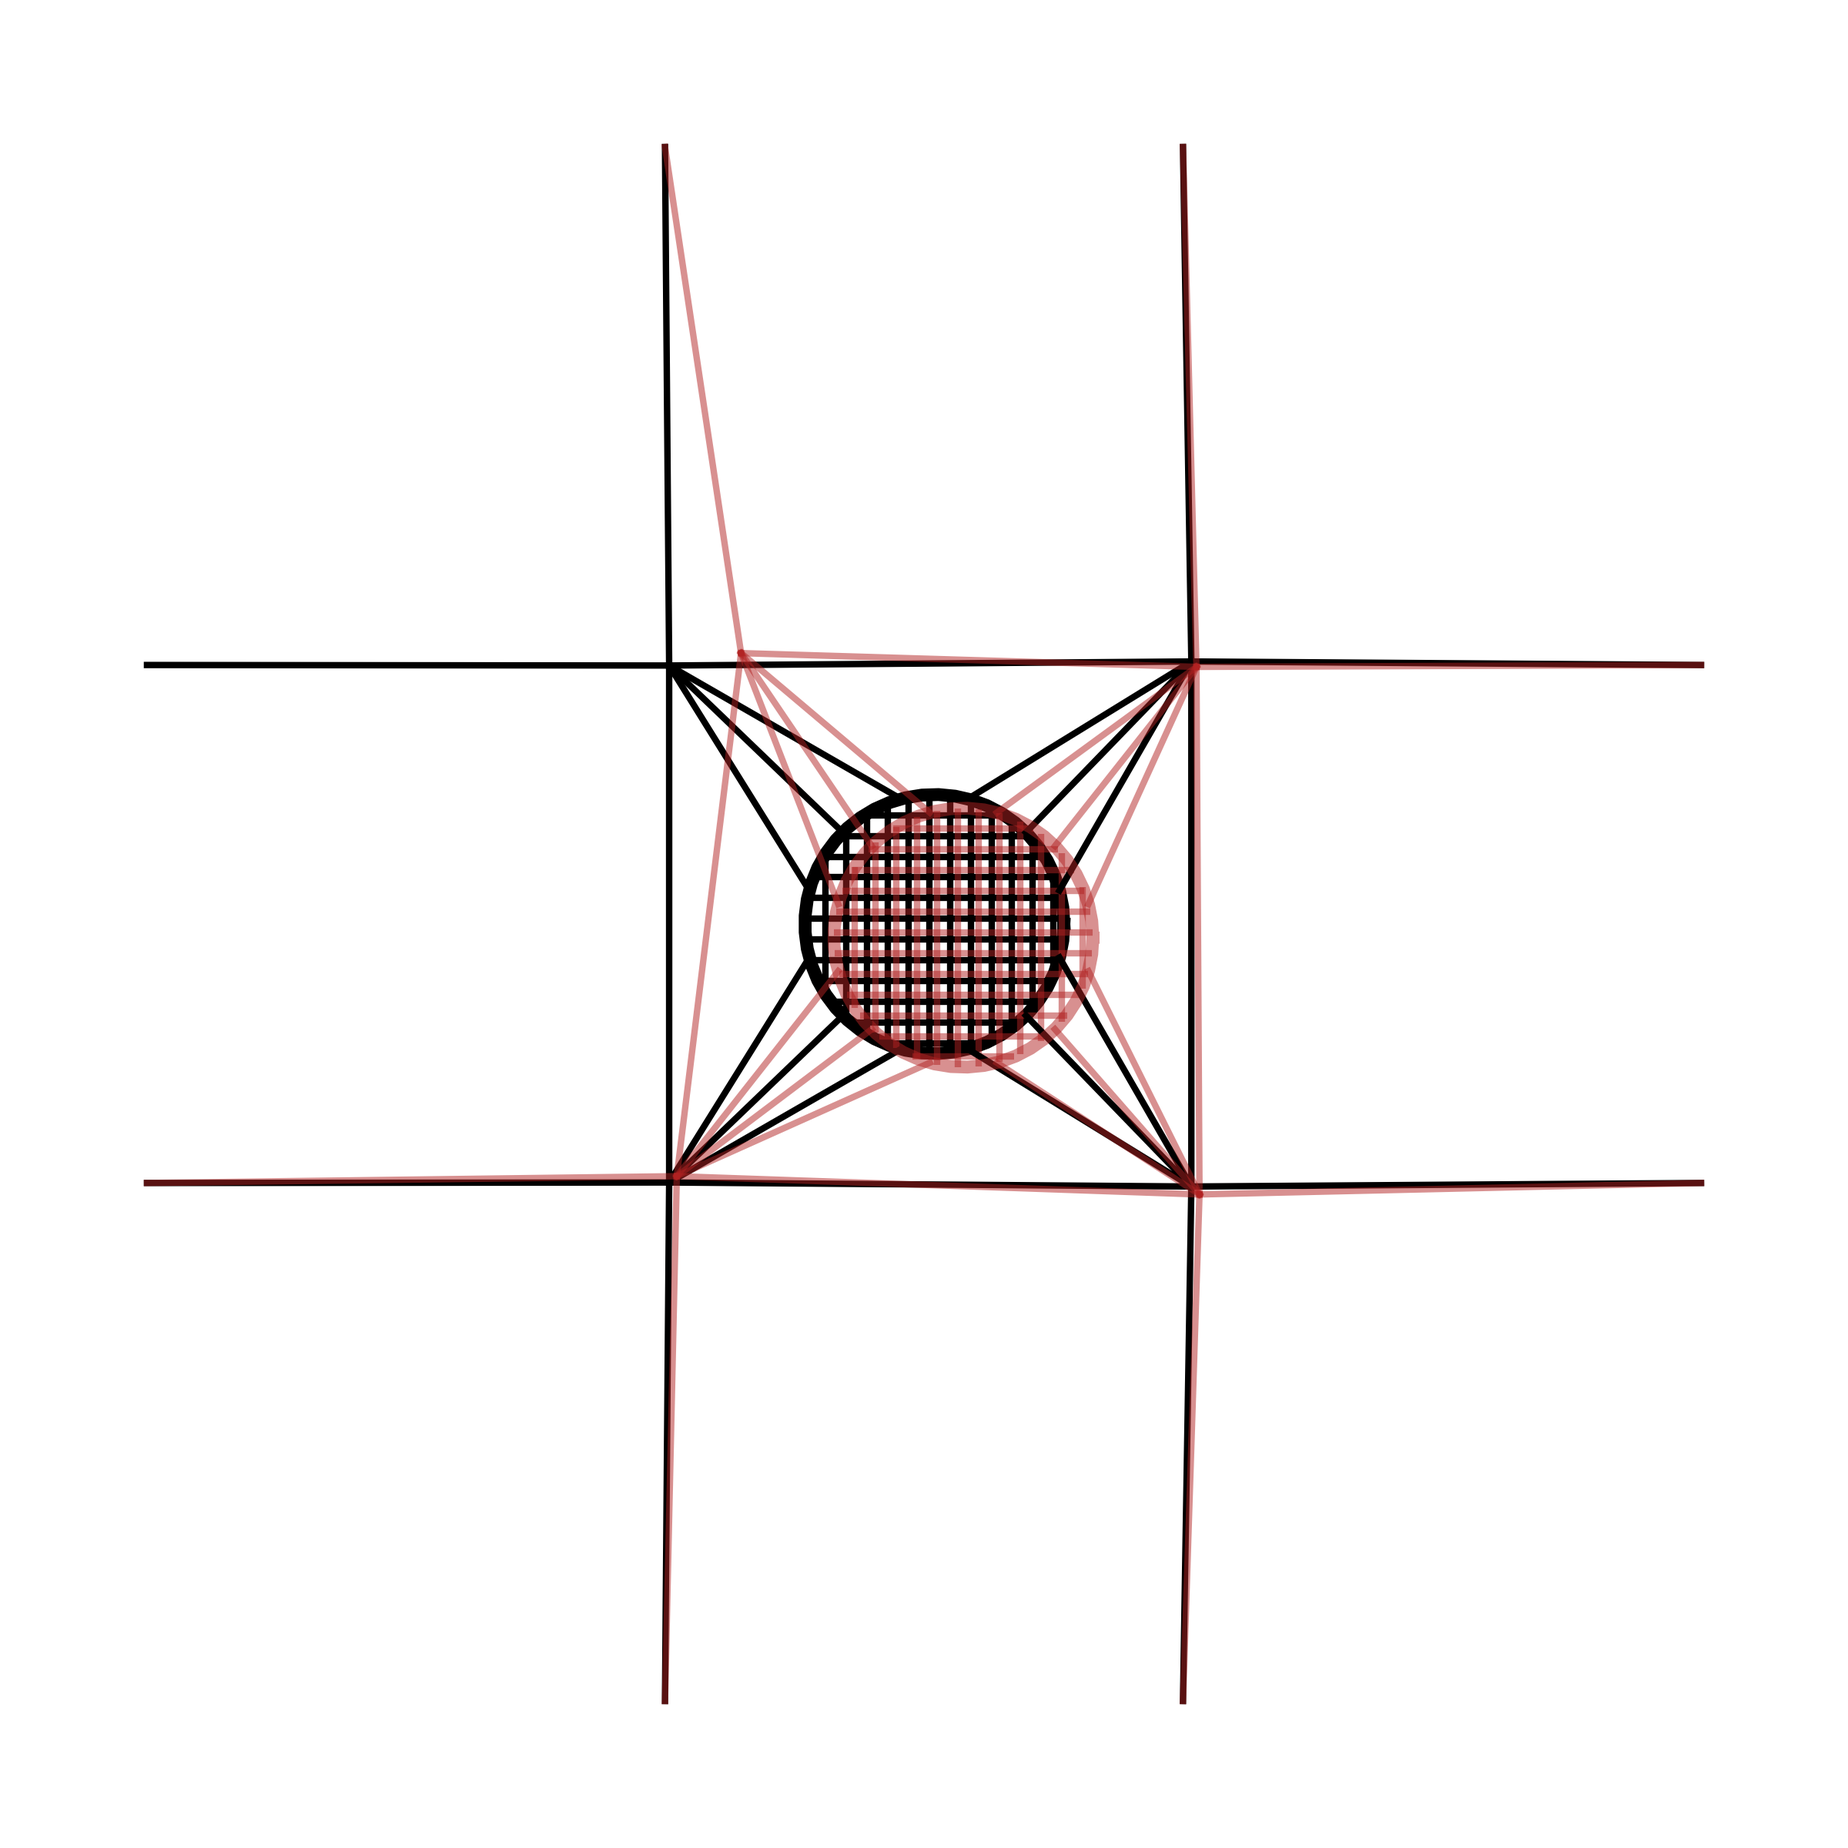
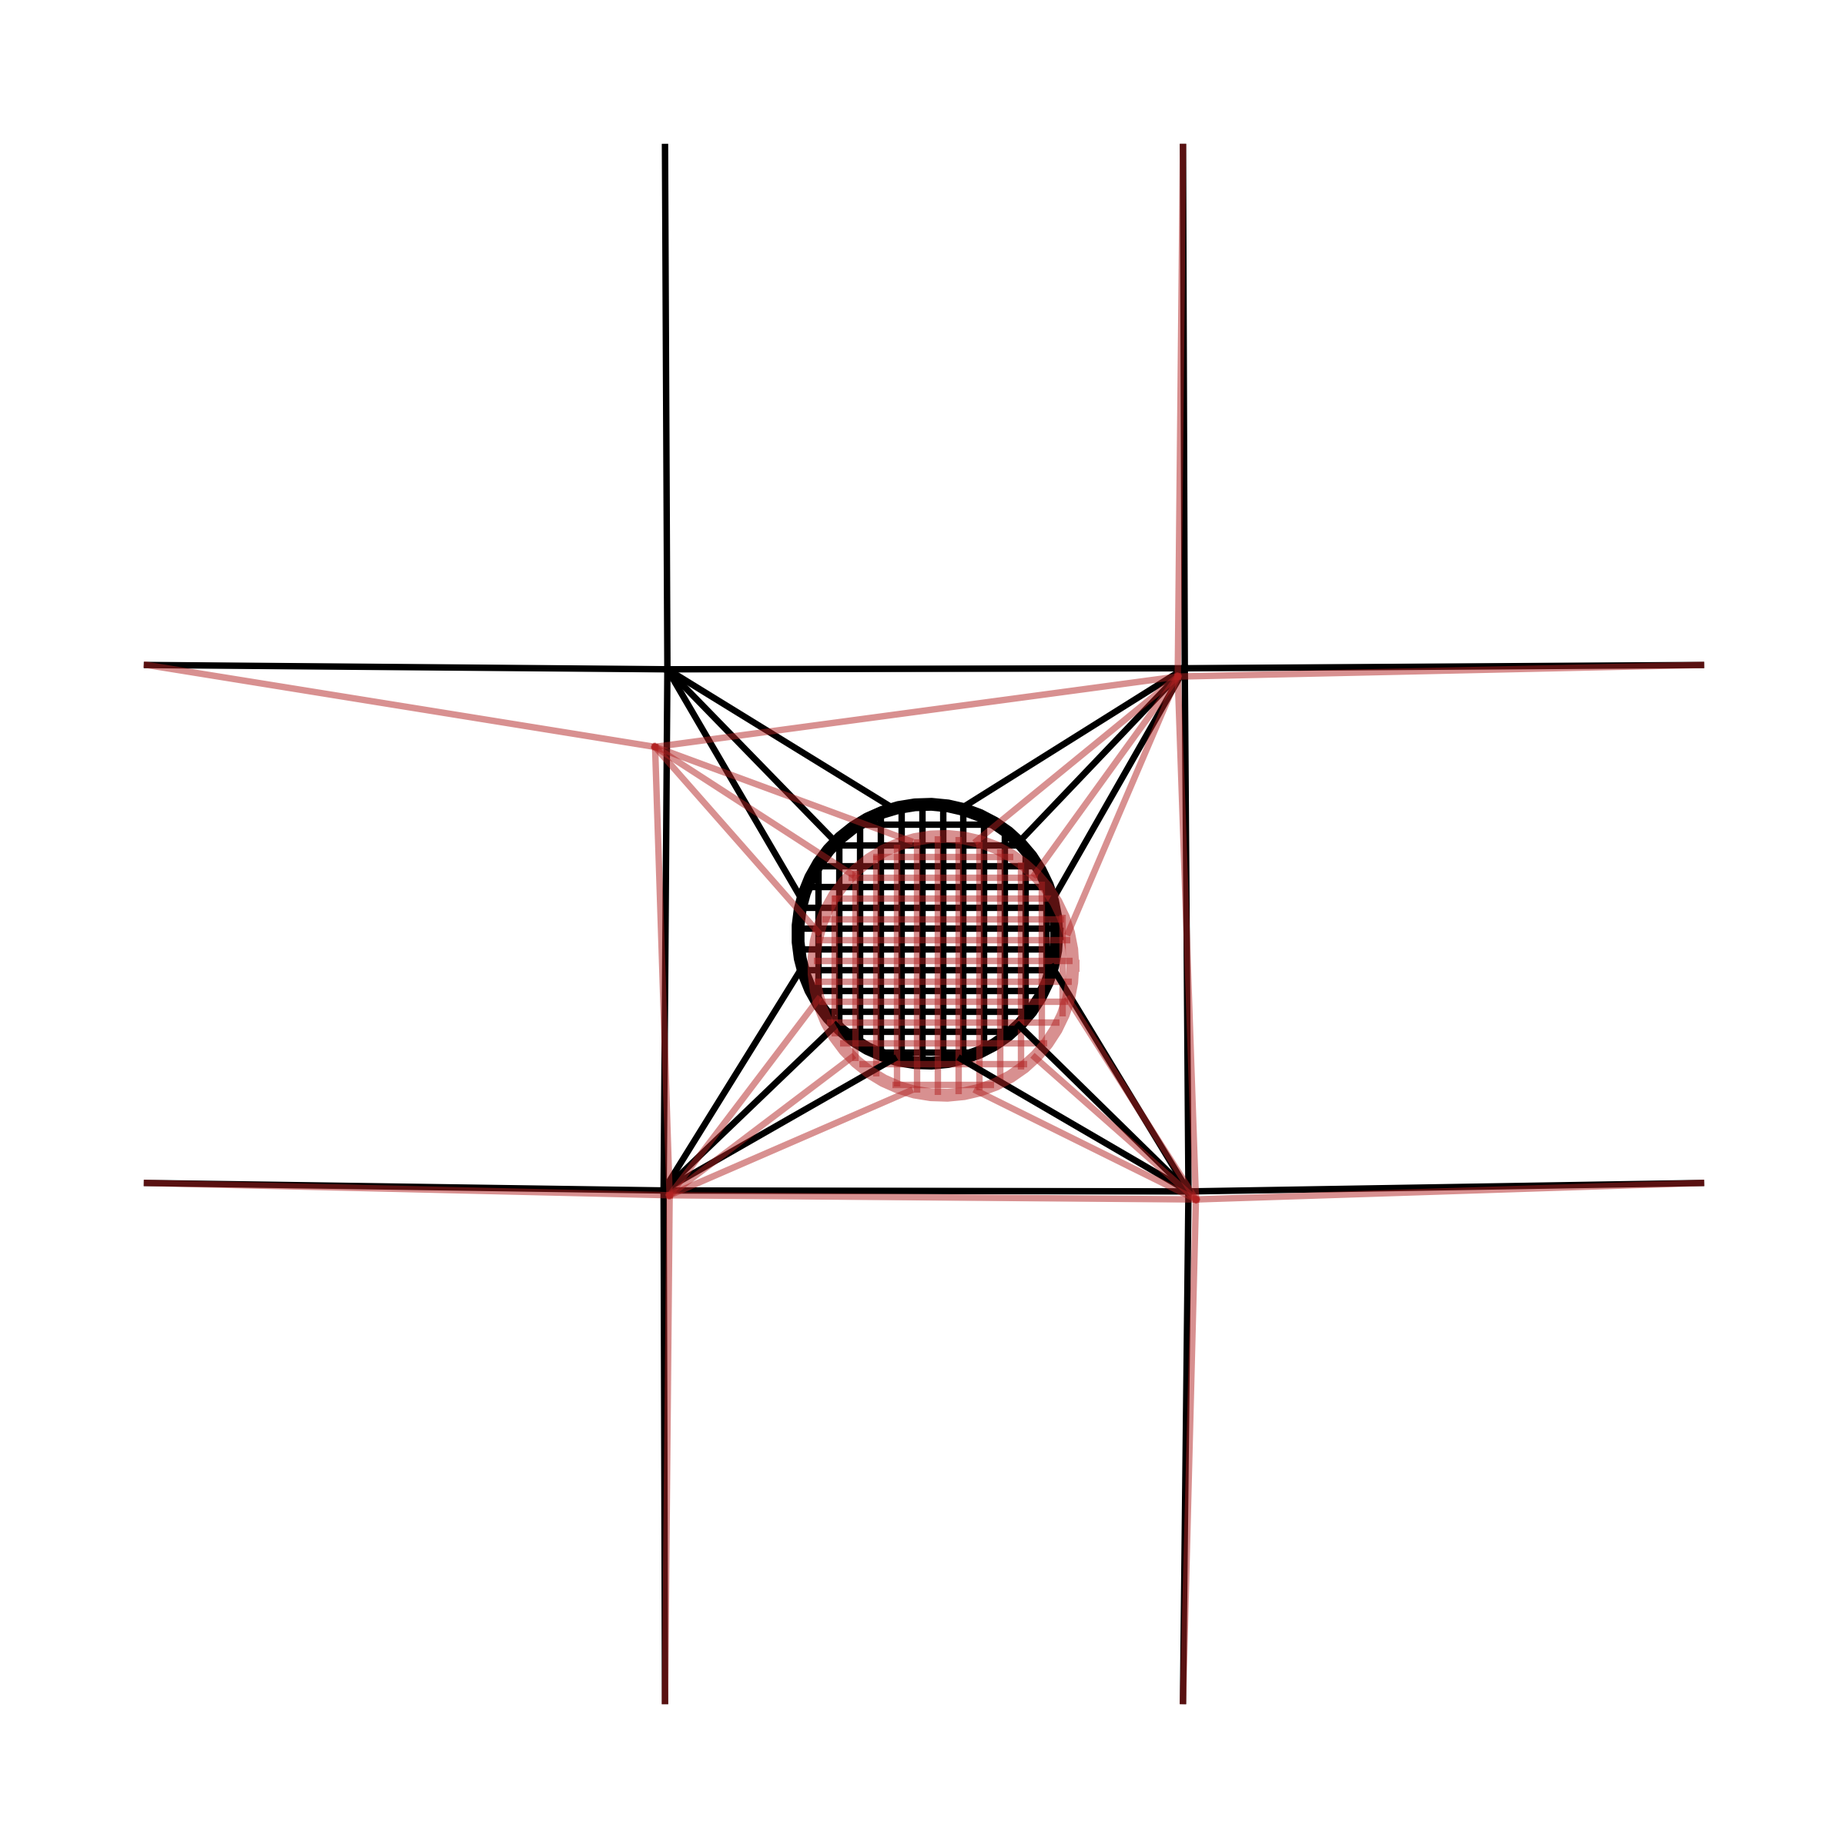
Function for generating the matrix of responses of the results of 1x4 multicage model for all flow directions

Changed region(s): [[0.125, 0.125, 0.875, 0.875], [0.3438, 0.0938, 0.375, 0.1875], [0.0938, 0.3438, 0.1875, 0.375]]

diff --git a/1x4_cages/Mat_gen_Intact.py b/1x4_cages/Mat_gen_Intact.py
@@ -1,0 +1,227 @@
+# -*- coding: utf-8 -*-
+"""
+Created on Sat Feb 15 15:30:44 2020
+
+@author: Jaesub
+"""
+
+import numpy as np
+import pickle
+
+mat = np.ones((10, 118))
+
+
+def matgen(deg):
+    with open(
+            '..\\..\\..\\OneDrive - Universitetet i Stavanger\\Fhsim_wake\\bin\\Results_1x4cages_intact_c\\cprocessed_Mul1x4Vel0.5Degree' + str(
+                deg) + '.csv', 'rb') as handle:
+        resu = pickle.load(handle)
+
+    anchors = ['U1', 'U2', 'U3', 'U4', 'V1', 'V2', 'V3', 'V4', 'V5', 'V6', 'V7', 'V8', 'V9', 'V10']
+    AF_keyword = ['U0_0_ForceA', 'U1_0_ForceA', 'U0_6_ForceB', 'U1_6_ForceB', 'V0_0_ForceA', 'V1_0_ForceA',
+                  'V2_0_ForceA', 'V3_0_ForceA', 'V4_0_ForceA', 'V0_3_ForceB', 'V1_3_ForceB', 'V2_3_ForceB',
+                  'V3_3_ForceB', 'V4_3_ForceB']
+    fcables = ['FCU1', 'FCU2', 'FCU3', 'FCU4', 'FCU5', 'FCU6', 'FCU7', 'FCU8', 'FCV1', 'FCV2', 'FCV3', 'FCV4', 'FCV5']
+    FC_keyword = ['U0_1_ForceA', 'U0_2_ForceA', 'U0_3_ForceA', 'U0_4_ForceA', 'U1_1_ForceA', 'U1_2_ForceA',
+                  'U1_3_ForceA',
+                  'U1_4_ForceA', 'V0_1_ForceA', 'V1_1_ForceA', 'V2_1_ForceA', 'V3_1_ForceA', 'V4_1_ForceA']
+
+    ## 0deg: 0-418s [0-836] // 10deg: 0-442s [0-884] // all the other degs: 0-500s [0-1000]
+    ## 0deg: 0-418s [0-836] // 10deg: 0-442s [0-884] // all the other degs: 0-500s [0-1000]
+    ## 0deg: 0-418s [0-836] // 10deg: 0-442s [0-884] // all the other degs: 0-500s [0-1000]
+    ########### anchor line tensions #################################
+    anchorF = np.zeros((1, 14))
+    if deg == 0:
+        for i in AF_keyword:
+            x = np.mean(resu['mooring3']['frameCable' + i][820:836, 0])
+            y = np.mean(resu['mooring3']['frameCable' + i][820:836, 1])
+            z = np.mean(resu['mooring3']['frameCable' + i][820:836, 2])
+            anchorF[0][AF_keyword.index(i)] = np.sqrt(x ** 2 + y ** 2 + z ** 2) / 1000
+    if deg == 10:
+        for i in AF_keyword:
+            x = np.mean(resu['mooring3']['frameCable' + i][860:884, 0])
+            y = np.mean(resu['mooring3']['frameCable' + i][860:884, 1])
+            z = np.mean(resu['mooring3']['frameCable' + i][860:884, 2])
+            anchorF[0][AF_keyword.index(i)] = np.sqrt(x ** 2 + y ** 2 + z ** 2) / 1000
+    if deg >= 20:
+        for i in AF_keyword:
+            x = np.mean(resu['mooring3']['frameCable' + i][980:1000, 0])
+            y = np.mean(resu['mooring3']['frameCable' + i][980:1000, 1])
+            z = np.mean(resu['mooring3']['frameCable' + i][980:1000, 2])
+            anchorF[0][AF_keyword.index(i)] = np.sqrt(x ** 2 + y ** 2 + z ** 2) / 1000
+
+    ########### framecable tensions #################################
+    frameCT = np.zeros((1, 13))
+    if deg == 0:
+        for i in FC_keyword:
+            x1 = np.mean(resu['mooring3']['frameCable' + i][820:836, 0])
+            y1 = np.mean(resu['mooring3']['frameCable' + i][820:836, 1])
+            z1 = np.mean(resu['mooring3']['frameCable' + i][820:836, 2])
+            frameCT[0][FC_keyword.index(i)] = np.sqrt(x1 ** 2 + y1 ** 2 + z1 ** 2) / 1000
+    if deg == 10:
+        for i in FC_keyword:
+            x1 = np.mean(resu['mooring3']['frameCable' + i][860:884, 0])
+            y1 = np.mean(resu['mooring3']['frameCable' + i][860:884, 1])
+            z1 = np.mean(resu['mooring3']['frameCable' + i][860:884, 2])
+            frameCT[0][FC_keyword.index(i)] = np.sqrt(x1 ** 2 + y1 ** 2 + z1 ** 2) / 1000
+    if deg >= 20:
+        for i in FC_keyword:
+            x1 = np.mean(resu['mooring3']['frameCable' + i][980:1000, 0])
+            y1 = np.mean(resu['mooring3']['frameCable' + i][980:1000, 1])
+            z1 = np.mean(resu['mooring3']['frameCable' + i][980:1000, 2])
+            frameCT[0][FC_keyword.index(i)] = np.sqrt(x1 ** 2 + y1 ** 2 + z1 ** 2) / 1000
+
+    ########### bridle tensions #################################
+    bridlenum = np.arange(12)
+    bridles = np.zeros((48, 1))
+    if deg == 0:
+        for j in range(0, 4):
+            for i in bridlenum:
+                x = np.mean(resu['mooring3']['forceFloater' + str(j) + '_0' + str(i)][820:836, 0])
+                y = np.mean(resu['mooring3']['forceFloater' + str(j) + '_0' + str(i)][820:836, 1])
+                z = np.mean(resu['mooring3']['forceFloater' + str(j) + '_0' + str(i)][820:836, 2])
+                bridles[12 * j + i][0] = np.sqrt(x ** 2 + y ** 2 + z ** 2) / 1000
+    if deg == 10:
+        for j in range(0, 4):
+            for i in bridlenum:
+                x = np.mean(resu['mooring3']['forceFloater' + str(j) + '_0' + str(i)][860:884, 0])
+                y = np.mean(resu['mooring3']['forceFloater' + str(j) + '_0' + str(i)][860:884, 1])
+                z = np.mean(resu['mooring3']['forceFloater' + str(j) + '_0' + str(i)][860:884, 2])
+                bridles[12 * j + i][0] = np.sqrt(x ** 2 + y ** 2 + z ** 2) / 1000
+    if deg >= 20:
+        for j in range(0, 4):
+            for i in bridlenum:
+                x = np.mean(resu['mooring3']['forceFloater' + str(j) + '_0' + str(i)][980:1000, 0])
+                y = np.mean(resu['mooring3']['forceFloater' + str(j) + '_0' + str(i)][980:1000, 1])
+                z = np.mean(resu['mooring3']['forceFloater' + str(j) + '_0' + str(i)][980:1000, 2])
+                bridles[12 * j + i][0] = np.sqrt(x ** 2 + y ** 2 + z ** 2) / 1000
+
+    #### Row represents each failure mode from 0th row for U1 to 11th row for FCV2 in order of fmodes list ####
+    ############### Matrix column 0 - 13: anchor line tension  #############################
+    if deg == 0:
+        for i in range(len(anchors)):
+            mat[0][i] = anchorF[0][i]
+
+    if deg == 10:
+        for i in range(len(anchors)):
+            mat[1][i] = anchorF[0][i]
+
+    if deg >= 20:
+        for i in range(len(anchors)):
+            mat[int(deg / 10)][i] = anchorF[0][i]
+
+    ############### Matrix column 15 - 27: framecable tension  #############################
+    if deg == 0:
+        for i in range(len(fcables)):
+            mat[0][len(anchors) + 1 + i] = frameCT[0][i]
+
+    if deg == 10:
+        for i in range(len(fcables)):
+            mat[1][len(anchors) + 1 + i] = frameCT[0][i]
+
+    if deg >= 20:
+        for i in range(len(fcables)):
+            mat[int(deg / 10)][len(anchors) + 1 + i] = frameCT[0][i]
+
+    ############### Matrix column 29 - 76: bridle tension  #############################
+    if deg == 0:
+        for i in range(len(bridles)):
+            mat[0][len(anchors) + 1 + len(fcables) + 1 + i] = bridles[i][0]
+
+    if deg == 10:
+        for i in range(len(bridles)):
+            mat[1][len(anchors) + 1 + len(fcables) + 1 + i] = bridles[i][0]
+
+    if deg >= 20:
+        for i in range(len(bridles)):
+            mat[int(deg / 10)][len(anchors) + 1 + len(fcables) + 1 + i] = bridles[i][0]
+
+    ########### Matrix column 78 - 81: Cultivation volumes of the cages  #################################
+    vol_intact = np.zeros((1, 4))
+    if deg == 0:
+        for i in range(0, 4):
+            vol_intact[0][i] = np.mean(resu['NetStructure' + str(i)]['VolumeEst'][820:836, 0])
+            mat[0][len(anchors) + 1 + len(fcables) + 1 + len(bridles) + 1 + i] = vol_intact[0][i]
+    if deg == 10:
+        for i in range(0, 4):
+            vol_intact[0][i] = np.mean(resu['NetStructure' + str(i)]['VolumeEst'][860:884, 0])
+            mat[1][len(anchors) + 1 + len(fcables) + 1 + len(bridles) + 1 + i] = vol_intact[0][i]
+    if deg >= 20:
+        for i in range(0, 4):
+            vol_intact[0][i] = np.mean(resu['NetStructure' + str(i)]['VolumeEst'][980:1000, 0])
+            mat[int(deg / 10)][len(anchors) + 1 + len(fcables) + 1 + len(bridles) + 1 + i] = vol_intact[0][i]
+
+    ########### Matrix column 83 - 86: total drag force of the cages  #################################
+    drag_intact = np.zeros((1, 4))
+    if deg == 0:
+        for i in range(0, 4):
+            drag_intact[0][i] = np.mean(resu['NetStructure' + str(i)]['NodeSumDragForceAbs'][820:836, 0]) / 1000
+            mat[0][len(anchors) + 1 + len(fcables) + 1 + len(bridles) + 1 + len(vol_intact[0][:]) + 1 + i] = \
+                drag_intact[0][i]
+
+    if deg == 10:
+        for i in range(0, 4):
+            drag_intact[0][i] = np.mean(resu['NetStructure' + str(i)]['NodeSumDragForceAbs'][860:884, 0]) / 1000
+            mat[1][len(anchors) + 1 + len(fcables) + 1 + len(bridles) + 1 + len(vol_intact[0][:]) + 1 + i] = \
+                drag_intact[0][i]
+
+    if deg >= 20:
+        for i in range(0, 4):
+            drag_intact[0][i] = np.mean(resu['NetStructure' + str(i)]['NodeSumDragForceAbs'][980:1000, 0]) / 1000
+            mat[int(deg / 10)][len(anchors) + 1 + len(fcables) + 1 + len(bridles) + 1 + len(vol_intact[0][:]) + 1 + i] = \
+                drag_intact[0][i]
+
+    ############# Matrix column 88 to 117 - deviation of buoy position between failuremode and intactmodel x,y,z direction ########
+    ####### column 88, 89, 90 are displacementS in x,y,z direction for buoy 1 and so on. Buoys are numbered in turn for positive y direction #################################
+    ############ Buoy 1,2 is attached to FCV1, Buoy 3,4 are attached top FCV2 and so on ###############
+    B_posi = np.zeros((30, 1))
+    B_pos_shift = np.zeros((30, 1))
+    buoys = ['0_0', '0_1', '1_0', '1_1', '2_0', '2_1', '3_0', '3_1', '4_0', '4_1']
+    order = np.arange(0, 30, 3)
+    if deg == 0:
+        for i in order:
+            B_posi[i][0] = resu['mooring3']['buoyPosition' + str(buoys[int(i / 3)])][0, 0]
+            B_posi[i + 1][0] = resu['mooring3']['buoyPosition' + str(buoys[int(i / 3)])][0, 1]
+            B_posi[i + 2][0] = resu['mooring3']['buoyPosition' + str(buoys[int(i / 3)])][0, 2]
+        for i in order:
+            B_pos_shift[i][0] = np.mean(resu['mooring3']['buoyPosition' + str(buoys[int(i / 3)])][820:836, 0])
+            B_pos_shift[i + 1][0] = np.mean(resu['mooring3']['buoyPosition' + str(buoys[int(i / 3)])][820:836, 1])
+            B_pos_shift[i + 2][0] = np.mean(resu['mooring3']['buoyPosition' + str(buoys[int(i / 3)])][820:836, 2])
+        B_pos = B_posi - B_pos_shift
+        for i in range(len(B_pos)):
+            mat[0][
+                len(anchors) + 1 + len(fcables) + 1 + len(bridles) + 1 + len(vol_intact[0][:]) + 1 + len(
+                    drag_intact[0][:]) + 1 + i] = B_pos[i][0]
+    if deg == 10:
+        for i in order:
+            B_posi[i][0] = resu['mooring3']['buoyPosition' + str(buoys[int(i / 3)])][0, 0]
+            B_posi[i + 1][0] = resu['mooring3']['buoyPosition' + str(buoys[int(i / 3)])][0, 1]
+            B_posi[i + 2][0] = resu['mooring3']['buoyPosition' + str(buoys[int(i / 3)])][0, 2]
+        for i in order:
+            B_pos_shift[i][0] = np.mean(resu['mooring3']['buoyPosition' + str(buoys[int(i / 3)])][860:884, 0])
+            B_pos_shift[i + 1][0] = np.mean(resu['mooring3']['buoyPosition' + str(buoys[int(i / 3)])][860:884, 1])
+            B_pos_shift[i + 2][0] = np.mean(resu['mooring3']['buoyPosition' + str(buoys[int(i / 3)])][860:884, 2])
+        B_pos = B_posi - B_pos_shift
+        for i in range(len(B_pos)):
+            mat[1][
+                len(anchors) + 1 + len(fcables) + 1 + len(bridles) + 1 + len(vol_intact[0][:]) + 1 + len(
+                    drag_intact[0][:]) + 1 + i] = B_pos[i][0]
+    if deg >= 20:
+        for i in order:
+            B_posi[i][0] = resu['mooring3']['buoyPosition' + str(buoys[int(i / 3)])][0, 0]
+            B_posi[i + 1][0] = resu['mooring3']['buoyPosition' + str(buoys[int(i / 3)])][0, 1]
+            B_posi[i + 2][0] = resu['mooring3']['buoyPosition' + str(buoys[int(i / 3)])][0, 2]
+        for i in order:
+            B_pos_shift[i][0] = np.mean(resu['mooring3']['buoyPosition' + str(buoys[int(i / 3)])][980:1000, 0])
+            B_pos_shift[i + 1][0] = np.mean(resu['mooring3']['buoyPosition' + str(buoys[int(i / 3)])][980:1000, 1])
+            B_pos_shift[i + 2][0] = np.mean(resu['mooring3']['buoyPosition' + str(buoys[int(i / 3)])][980:1000, 2])
+        B_pos = B_posi - B_pos_shift
+        for i in range(len(B_pos)):
+            mat[int(deg / 10)][
+                len(anchors) + 1 + len(fcables) + 1 + len(bridles) + 1 + len(vol_intact[0][:]) + 1 + len(
+                    drag_intact[0][:]) + 1 + i] = B_pos[i][0]
+
+
+theta = np.arange(0, 100, 10)
+for deg in theta:
+    matgen(deg)

diff --git a/Shift_of_cage.py b/Shift_of_cage.py
@@ -8,10 +8,12 @@ Created on Wed Feb  5 18:31:44 2020
 import pickle
 
 ######## intact model ########################
-# with open('..\\Results_singlecage_intact_d\\dprocessed_Mul1x1Vel0.5Degree0.csv', 'rb') as handle:
+# with open('..\\..\\OneDrive - Universitetet i Stavanger\\Fhsim_wake\\bin\\Results_singlecage_intact_d\\dprocessed_Mul1x1Vel0.5Degree0.csv', 'rb') as handle:
 #     resu = pickle.load(handle)
 ######## failed model ########################
-with open('..\\Results_singlecage_failure\\U1_fail\\dprocessed_Mul1x1Vel0.5Degree0_U1_fail.csv', 'rb') as handle:
+with open(
+        '..\\..\\OneDrive - Universitetet i Stavanger\\Fhsim_wake\\bin\\Results_singlecage_failure\\V1_fail\\dprocessed_Mul1x1Vel0.5Degree70_V1_fail.csv',
+        'rb') as handle:
     resu = pickle.load(handle)
 
 import numpy as np
@@ -225,11 +227,11 @@ for i in range(-25, 25, 4):
                center2[1] + np.sqrt(r ** 2 - (x - center2[0]) ** 2), colors='firebrick', linestyle='solid', alpha=0.5)
 
 ########### Mooring lines ############
-# plt.plot(sU1x, sU1y,'firebrick',alpha = 0.5)
+plt.plot(sU1x, sU1y, 'firebrick', alpha=0.5)
 plt.plot(sU2x, sU2y, 'firebrick', alpha=0.5)
 plt.plot(sU3x, sU3y, 'firebrick', alpha=0.5)
 plt.plot(sU4x, sU4y, 'firebrick', alpha=0.5)
-plt.plot(sV1x, sV1y, 'firebrick', alpha=0.5)
+# plt.plot(sV1x, sV1y, 'firebrick', alpha=0.5)
 plt.plot(sV2x, sV2y, 'firebrick', alpha=0.5)
 plt.plot(sV3x, sV3y, 'firebrick', alpha=0.5)
 plt.plot(sV4x, sV4y, 'firebrick', alpha=0.5)

diff --git a/1x4_cages/Mat_gen.py b/1x4_cages/Mat_gen.py
@@ -130,8 +130,8 @@ import numpy as np
 mat = np.ones((27, 118))
 theta = np.arange(0, 100, 10)
 for failure in failuremodes:
-    matgen(10, failure)
-
+    matgen(70, failure)
+deg_console1_mat = 70
 # import pandas as pd
 # shit = pd.DataFrame(mat)
 
